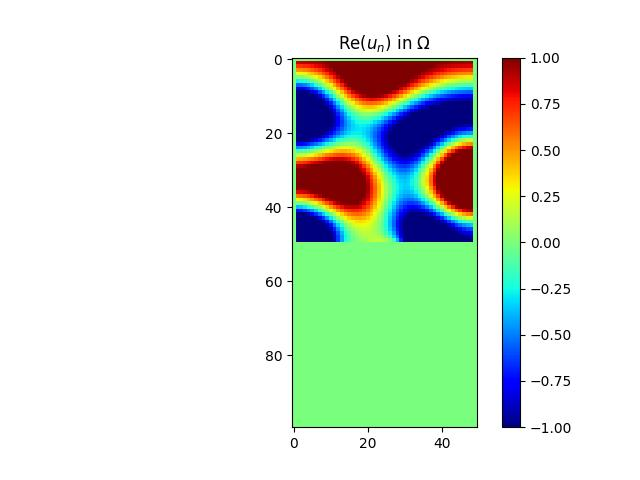
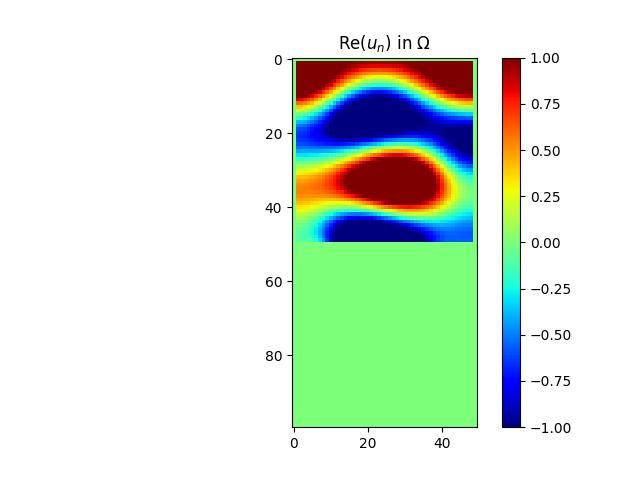
Working

Changed region(s): [[0.4375, 0.125, 0.75, 0.5312]]

diff --git a/demo_control_polycopie2023.py b/demo_control_polycopie2023.py
@@ -13,7 +13,7 @@ import _env
 import preprocessing
 import processing
 import postprocessing
-from utils import compute_gradient_descent, P_l, integrate
+from utils import compute_gradient_descent,integrate, gradient_descent_student
 #import solutions
 
 
@@ -32,9 +32,8 @@ def your_optimization_procedure(domain_omega, spacestep, omega, f, f_dir, f_neu,
 
     k = 0
     (M, N) = np.shape(domain_omega)
-    numb_iter = 20
+    numb_iter = 200
     energy = np.zeros((numb_iter+1, 1), dtype=np.float64)
-    ene = 10**10
 
     while k < numb_iter and mu > 10**(-5):
         print('---- iteration number = ', k)
@@ -47,45 +46,48 @@ def your_optimization_procedure(domain_omega, spacestep, omega, f, f_dir, f_neu,
         print('3. computing objective function, i.e., energy')
 
         ene = your_compute_objective_function(domain_omega, u, spacestep)
+        print("energy",ene)
         energy[k] = ene
         print('4. computing parametric gradient')
 
-        bool_a = 1 if energy[k] < energy[k-1] else 0
         grad = - np.real(Alpha * u * p)
 
         while ene >= energy[k] and mu > 10 ** -5:
             l=0 
             print('    a. computing gradient descent')
-            chi = P_l(domain_omega,chi,l,mu,grad)
+            chi  = gradient_descent_student(chi, grad, domain_omega, mu)
+            chi = np.maximum(0, np.minimum(chi + l ,  1))
 
-            print('     b. computing projected gradient')   
+            print('    b. computing projected gradient')   
+
+            # Premier calcul de integral de khi
             chi_rob=0
-            z=0
             for i in range(np.shape(domain_omega)[0]):
                 for j in range(np.shape(domain_omega)[1]):
-                    if domain_omega[i][j]==3:
-                        chi_rob= chi_rob+chi[i][j]
-                        z=z+1
-            int_chi=chi_rob/z
-            while abs(int_chi -beta )> epsilon1:
-                print("l : ",l)
-                if int_chi>beta:
-                    l=l-epsilon2
+                    if domain_omega[i][j]==_env.NODE_ROBIN:
+                        chi_rob += chi[i][j] * spacestep**2
+                        
+            while abs(chi_rob - beta )> epsilon1:
+                if chi_rob >beta:
+                    l -= epsilon2
                 else:
-                    l=l+ epsilon2
-                new_chi=P_l(domain_omega,chi,l,mu,grad)
+                    l +=   epsilon2
+
+
+                chi = gradient_descent_student(chi, grad, domain_omega, mu)
+                chi = np.maximum(1, np.minimum(chi + l ,  0))
+
+                # Calcul de integral de khi
                 chi_rob=0
                 z=0
                 for i in range(np.shape(domain_omega)[0]):
                     for j in range(np.shape(domain_omega)[1]):
-                        if domain_omega[i][j]==3:
-                            chi_rob= chi_rob+new_chi[i][j]
-                            z=z+1
-                int_chi=chi_rob/z
+                        if domain_omega[i][j]==_env.NODE_ROBIN:
+                            chi_rob += chi[i][j] * spacestep**2
 
 
             print('    c. computing solution of Helmholtz problem, i.e., u')
-            alpha_rob*= chi # update alpha_rob
+            alpha_rob= chi * Alpha # update alpha_rob
             u = processing.solve_helmholtz(domain_omega, spacestep, omega, f, f_dir, f_neu, f_rob,
                                              beta_pde, alpha_pde, alpha_dir, beta_neu, beta_rob, alpha_rob)
             
@@ -102,6 +104,9 @@ def your_optimization_procedure(domain_omega, spacestep, omega, f, f_dir, f_neu,
         k += 1
 
     print('end. computing solution of Helmholtz problem, i.e., u')
+
+    numb_iter = k
+    energy = energy[0:(numb_iter+1)]
 
     return chi, energy, u, grad
 
@@ -120,14 +125,10 @@ def your_compute_objective_function(domain_omega, u, spacestep):
         equation.
     """
     
-    energy = 0 
-    # Integrate u
-    for i in range(domain_omega.shape[0]):
-        for j in range(domain_omega.shape[1]):
-            if domain_omega[i,j] == type:
-                energy += np.abs(u[i,j])**2 
-
-    return energy * spacestep**2
+    # Integrate u 
+    energy = np.sum(np.abs(u) ** 2) * spacestep ** 2
+    
+    return energy
 
 
 if __name__ == '__main__':
@@ -146,9 +147,9 @@ if __name__ == '__main__':
     ky = -1.0
     wavenumber = np.sqrt(kx**2 + ky**2)  # wavenumber
     wavenumber = 10.0
-    epsilon1 = 10**(-1)
-    epsilon2 = 10**(-1)
-    beta = 0.5
+    epsilon1 = 10**(-2)
+    epsilon2 = 10**(-2)
+    beta = 0.05
 
     # ----------------------------------------------------------------------
     # -- Do not modify this cell, these are the values that you will be assessed against.

diff --git a/utils.py b/utils.py
@@ -1,13 +1,26 @@
-import numpy 
+import numpy as np
+import _env
 
 def BelongsInteriorDomain(node):
 	if (node < 0):
 		return 1
 	if node == 3:
-		print("Robin")
+		# print("Robin")
 		return 2
 	else:
 		return 0
+
+def gradient_descent_student(chi, grad, domain_omega,mu):
+	(M, N) = np.shape(domain_omega)
+	for i in range(0, M):
+		for j in range(0, N):
+			if domain_omega[i, j] != _env.NODE_ROBIN:
+				chi[i, j] = chi[i, j] - mu * grad[i, j]
+			else:
+				chi[i,j] = chi[i,j] - mu*grad[i -1 ,j]
+			
+	return chi
+
 
 
 def compute_gradient_descent(chi, grad, domain, mu):
@@ -30,7 +43,7 @@ def compute_gradient_descent(chi, grad, domain, mu):
 			of the Robin frontier.
 	"""
 
-	(M, N) = numpy.shape(domain)
+	(M, N) = np.shape(domain)
 	# for i in range(0, M):
 	# 	for j in range(0, N):
 	# 		if domain_omega[i, j] != _env.NODE_ROBIN:
@@ -50,43 +63,19 @@ def compute_gradient_descent(chi, grad, domain, mu):
 			c = BelongsInteriorDomain(domain[i, j + 1])
 			d = BelongsInteriorDomain(domain[i, j - 1])
 			if a == 2:
-				print(i+1,j, "-----", "i+1,j")
+				# print(i+1,j, "-----", "i+1,j")
 				chi[i + 1, j] = chi[i + 1, j] - mu * grad[i, j]
 			if b == 2:
-				print(i - 1, j, "-----", "i - 1, j")
+				# print(i - 1, j, "-----", "i - 1, j")
 				chi[i - 1, j] = chi[i - 1, j] - mu * grad[i, j]
 			if c == 2:
-				print(i, j + 1, "-----", "i , j + 1")
+				# print(i, j + 1, "-----", "i , j + 1")
 				chi[i, j + 1] = chi[i, j + 1] - mu * grad[i, j]
 			if d == 2:
-				print(i, j - 1, "-----", "i , j - 1")
+				# print(i, j - 1, "-----", "i , j - 1")
 				chi[i, j - 1] = chi[i, j - 1] - mu * grad[i, j]
 
 	return chi
-
-
-def P_l(chi , l, mu, J_prime, domain_omega):
-    h,n=numpy.shape(chi)
-    moy = numpy.mean(chi)
-    chi_new=numpy.zeros((h,n))
-    one=numpy.ones((h,n))
-    zero=numpy.zeros((h,n))
-    for i in range(numpy.shape(domain_omega)[0]):
-        for j in range(numpy.shape(domain_omega)[1]):
-            if domain_omega[i][j]==3:
-                # print(i,j)
-                moy_chi_new=0
-                nb=1
-                for colLoc in [-1,1]:
-                    # moy_chi_new = 0
-                    if (j+colLoc >= 0) and (j+colLoc < numpy.shape(domain_omega)[1]):
-                        moy_chi_new += chi[i][j]-mu*J_prime[i][j+colLoc]+l
-                        nb+=1
-                moy_chi_new += chi[i][j]-mu*J_prime[i+1][j]+l
-                moy_chi_new = moy_chi_new/nb
-                chi_new[i,j]=max(0,min(moy_chi_new,1))
-				
-    return chi_new
 
 def integrate(domain , var, step, boundary):
 	integral = 0
